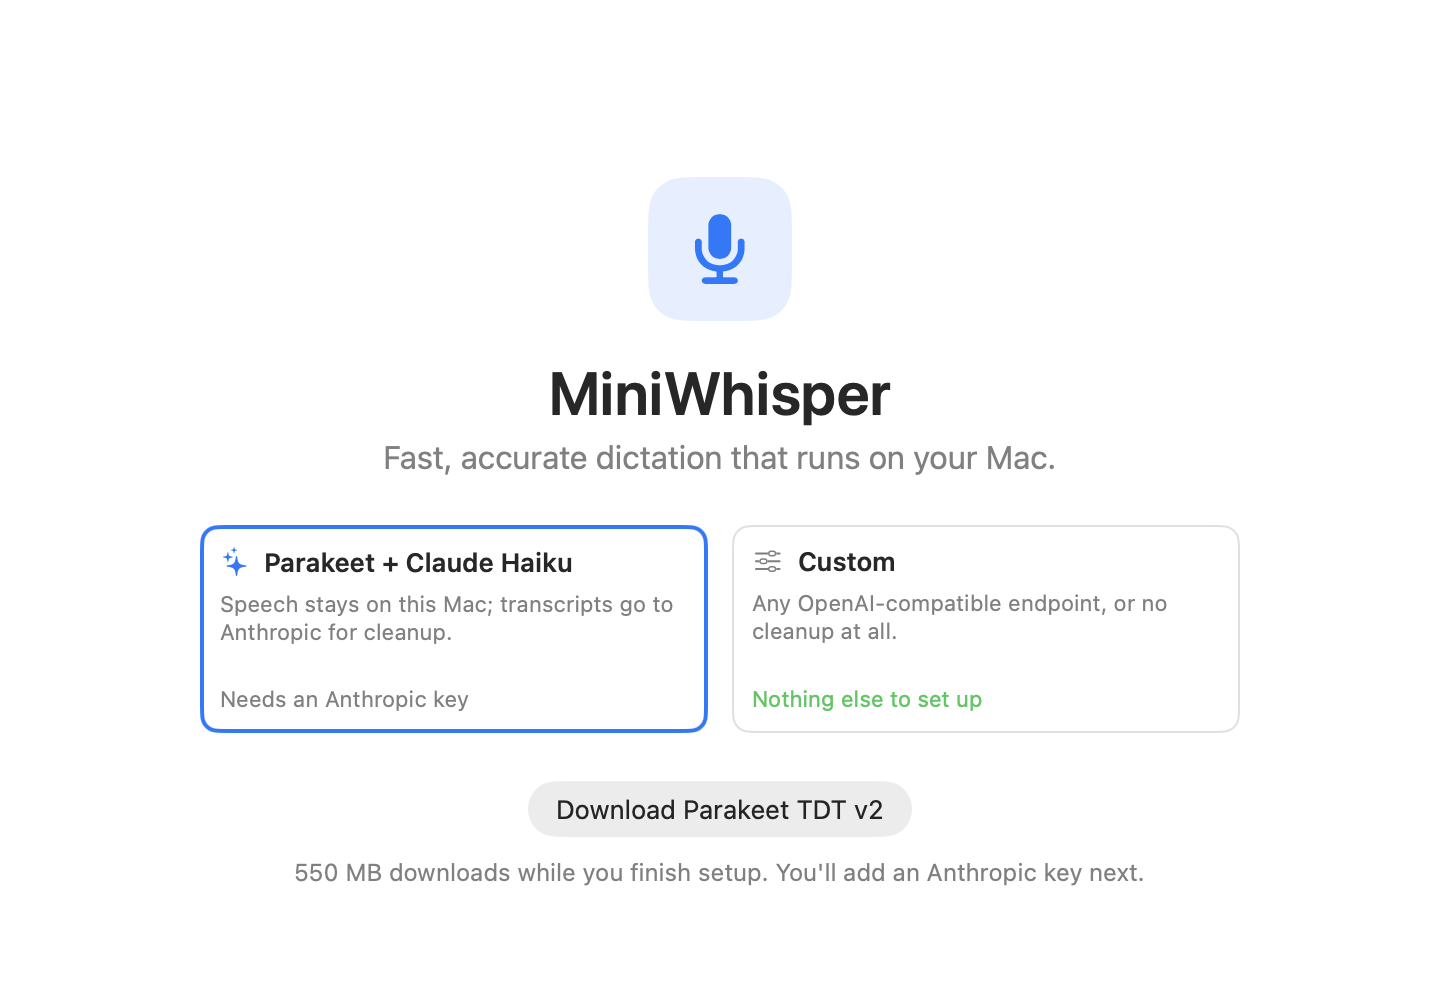
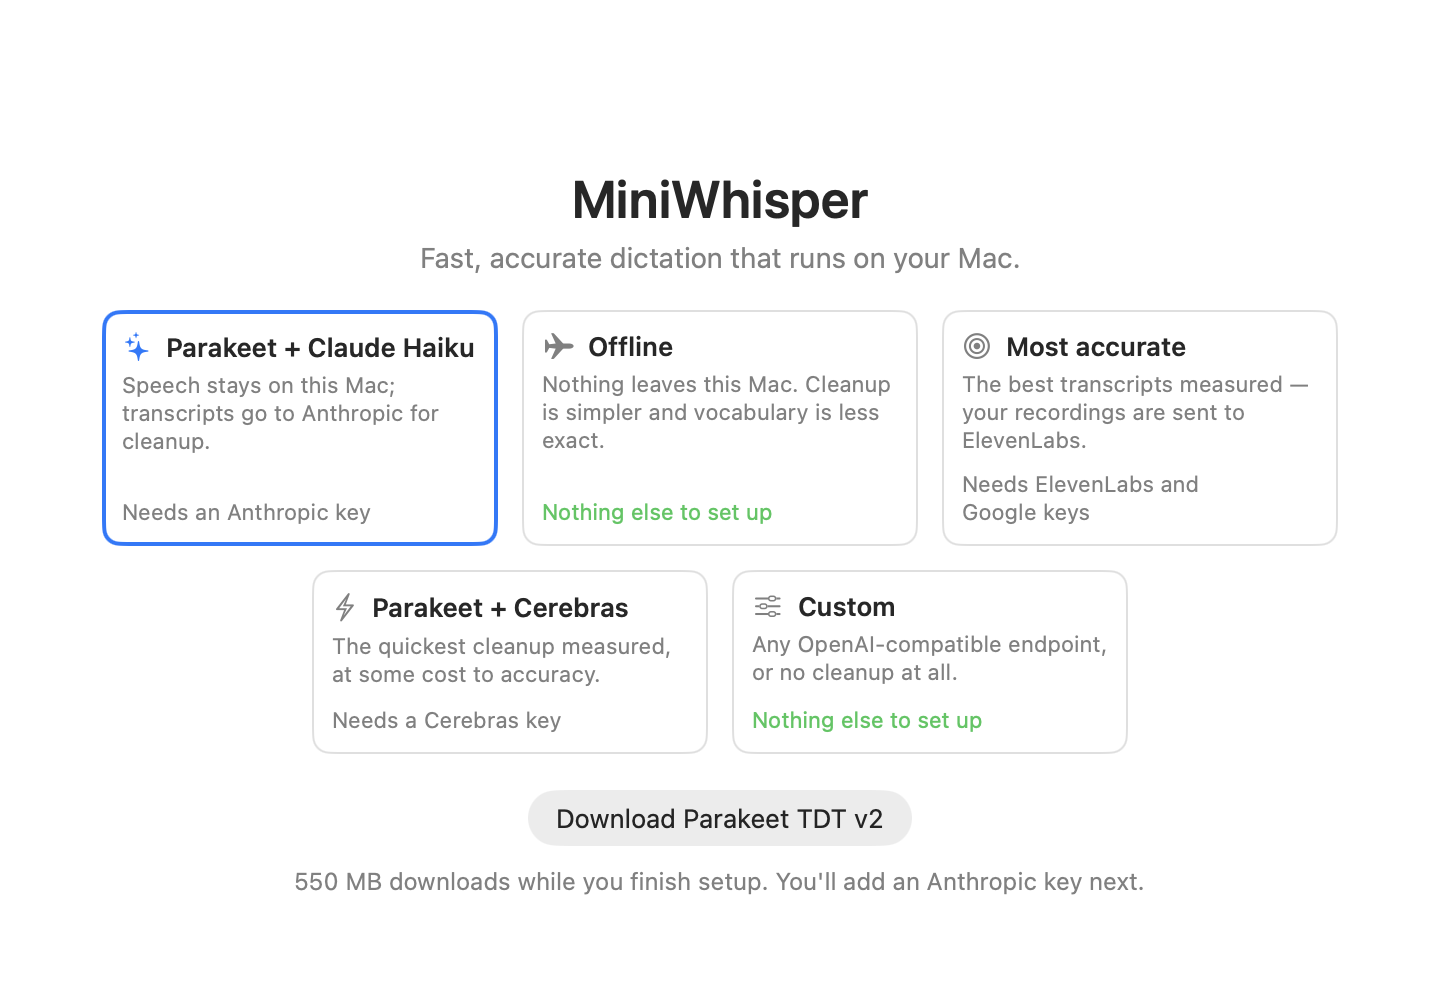
docs: show every profile on the welcome cards
Why: the user leans towards the cards layout and wants it to show the
whole lineup rather than the two profiles v1 ships, and settled how a
mid-download profile switch behaves.

Approach: welcome-b always renders all five profiles, as a row of three
over a centered row of two with equal heights. Downloads are recorded
as independent of the profile choice: the running download finishes
and the new profile asks for its own the normal way. Cleanup is the
pane's Downloaded models section, where a model the active profile
does not use now reads "not in use" beside its Delete button; a `tall`
flag opens a window that reaches it, captured as pane-b-leftover. The
factory profile shows claude-haiku-5-5.

Verified: built with swiftc, recaptured every screen light and dark,
inspected the cards and the leftover-model pane.

diff --git a/spikes/profiles-mockup/ProfilesMockup.swift b/spikes/profiles-mockup/ProfilesMockup.swift
@@ -15,6 +15,7 @@
 //   offline          start on the offline profile (the multi-model download case)
 //   custom-selected  start with Custom selected, so its own detail rows are on screen
 //   light | dark  force an appearance
+//   tall          a settings window tall enough to reach Downloaded models
 //
 // Written against .agents/skills/native-macos-ui: system containers own the layout, text styles
 // instead of point sizes, semantic colors only, no control drawn by hand that AppKit provides.
@@ -67,7 +68,7 @@ let haikuProfile = Profile(
   tagline: "Speech stays on this Mac; transcripts go to Anthropic for cleanup.",
   symbol: "sparkles", isFactory: true, engine: "Parakeet TDT v2",
   vocabulary: "Staged in the cleanup prompt",
-  endpoint: "https://api.anthropic.com/v1", model: "claude-haiku-4-5", needsKey: true,
+  endpoint: "https://api.anthropic.com/v1", model: "claude-haiku-5-5", needsKey: true,
   keyProvider: "Anthropic", keyRequirement: "an Anthropic key", models: [parakeet],
 )
 
@@ -145,7 +146,8 @@ enum Screen: String {
   init() {
     let arguments = CommandLine.arguments.dropFirst().map { $0.lowercased() }
     screen = arguments.compactMap(Screen.init(rawValue:)).first ?? .paneA
-    showsFullLineup = arguments.contains("full")
+    // The cards page always shows the whole lineup: comparing every option is what it is for.
+    showsFullLineup = arguments.contains("full") || screen == .welcomeB
     isOverridden = arguments.contains("overridden")
     if arguments.contains("offline") {
       showsFullLineup = true
@@ -453,7 +455,7 @@ struct CustomDetail: View {
         HStack(spacing: 8) {
           Picker("", selection: .constant("gpt-oss-120b")) {
             Text("gpt-oss-120b").tag("gpt-oss-120b")
-            Text("claude-haiku-4-5").tag("claude-haiku-4-5")
+            Text("claude-haiku-5-5").tag("claude-haiku-5-5")
             Divider()
             Text("Custom…").tag("custom")
           }
@@ -550,9 +552,13 @@ struct ModelStorage: View {
     mock.showsFullLineup ? [parakeet, ctcHelper, s1mini] : [parakeet, ctcHelper]
   }
 
+  /// A model the active profile does not use says so, because a download the user walked away
+  /// from is exactly what they come here to delete.
   private func usedBy(_ asset: ModelAsset) -> String {
     let users = mock.profiles.filter { $0.models.contains(asset) }.map(\.name)
-    return users.isEmpty ? "\(asset.role) · not used by any profile" : "\(asset.role) · \(users.joined(separator: ", "))"
+    let owners = users.isEmpty ? "not used by any profile" : users.joined(separator: ", ")
+    let idle = mock.selectedProfile.models.contains(asset) || users.isEmpty ? "" : " — not in use"
+    return "\(asset.role) · \(owners)\(idle)"
   }
 }
 
@@ -833,25 +839,30 @@ struct WelcomeList: View {
 
 // MARK: - Welcome B: cards
 
-/// The profiles side by side, so the tradeoffs are compared rather than read in turn. Each card
-/// ends with what it costs to set up. Five profiles is two rows of three and no hero glyph.
+/// Every profile side by side, so the tradeoffs are compared rather than read in turn. Each card
+/// ends with what it costs to set up. Five profiles is a row of three over a centered row of two,
+/// and no hero glyph.
 struct WelcomeCards: View {
   @Bindable var mock: Mock
 
   var body: some View {
     let isCrowded = mock.profiles.count > 3
+    let perRow = isCrowded ? 3 : 2
+    let rows = stride(from: 0, to: mock.profiles.count, by: perRow).map {
+      Array(mock.profiles[$0 ..< min($0 + perRow, mock.profiles.count)])
+    }
     WelcomeShell(mock: mock, compactHero: isCrowded) {
-      LazyVGrid(
-        columns: Array(
-          repeating: GridItem(.flexible(), spacing: 12), count: isCrowded ? 3 : 2,
-        ),
-        spacing: 12,
-      ) {
-        ForEach(mock.profiles) { profile in
-          card(profile, isCrowded: isCrowded)
+      VStack(spacing: 12) {
+        ForEach(rows, id: \.first!.id) { row in
+          HStack(spacing: 12) {
+            ForEach(row) { profile in
+              card(profile, isCrowded: isCrowded)
+                .frame(width: isCrowded ? 198 : 254)
+            }
+          }
+          .fixedSize(horizontal: false, vertical: true)
         }
       }
-      .frame(width: isCrowded ? 620 : 520)
     }
   }
 
@@ -877,7 +888,7 @@ struct WelcomeCards: View {
         .foregroundStyle(profile.needsKey ? Color.secondary : Color.green)
     }
     .padding(10)
-    .frame(maxWidth: .infinity, minHeight: isCrowded ? 92 : 104, alignment: .topLeading)
+    .frame(maxWidth: .infinity, minHeight: isCrowded ? 92 : 104, maxHeight: .infinity, alignment: .topLeading)
     .background(
       Color(nsColor: .controlBackgroundColor).opacity(0.5),
       in: RoundedRectangle(cornerRadius: 9),
@@ -1074,7 +1085,7 @@ final class Delegate: NSObject, NSApplicationDelegate {
       window.titlebarAppearsTransparent = true
     } else {
       window = NSWindow(
-        contentRect: NSRect(x: 0, y: 0, width: 880, height: 680),
+        contentRect: NSRect(x: 0, y: 0, width: 880, height: arguments.contains("tall") ? 1180 : 680),
         styleMask: [.titled, .closable, .miniaturizable, .resizable, .fullSizeContentView],
         backing: .buffered, defer: false,
       )

diff --git a/spikes/profiles-mockup/README.md b/spikes/profiles-mockup/README.md
@@ -22,6 +22,7 @@ Flags stack after the screen, in any order:
 | `overridden`      | its endpoint has been edited in place, so Reset to Default exists |
 | `offline`         | start on the offline profile — the three-file download case       |
 | `custom-selected` | start on Custom, so its own detail rows are on screen             |
+| `tall`            | a settings window tall enough to reach Downloaded models          |
 | `light` / `dark`  | force an appearance                                               |
 
 Everything is live: profiles select, the key field stores, the welcome button walks the real branch (a factory profile with no key goes to the key step, Custom goes straight to the downloads).
@@ -54,7 +55,7 @@ Radio rows in a card under the hero, the grammar of the Permissions page. Each r
 
 ### B — cards
 
-The profiles side by side, so tradeoffs are compared rather than read in turn; each card ends with what it costs to set up. Two cards sit comfortably under the full hero. Five is two rows of three with no hero glyph, and the page is visibly full.
+Every profile side by side, so tradeoffs are compared rather than read in turn; each card ends with what it costs to set up. This variant always shows the whole lineup, not just the two v1 ships, because comparing every option is what cards are for. At five the hero drops its glyph and the cards sit as three over a centered two.
 
 ### C — pop-up
 
@@ -64,7 +65,7 @@ Today's welcome page plus one `Picker`, preselected to the default, the selected
 
 A factory profile is prescriptive, so this page has no Skip. The only way past it is a different profile, and the link says which one and what it costs: "Use the Custom profile instead — no key, no cleanup". Continue is disabled while the field is empty.
 
-The link goes straight on to the downloads rather than back to the welcome page, because the download has already started. That only works while Custom shares the factory profile's model set; switching to a profile with a different set mid-download is a case the design doc has to answer.
+The link goes straight on to the downloads rather than back to the welcome page, because the download has already started. That only works while Custom shares the factory profile's model set; switching to a profile with a different set mid-download is decided: the running download finishes, the new profile asks for its own download the normal way, and neither blocks the other. A model nobody wants anymore is deleted from the pane's Downloaded models section, where one the active profile does not use says `not in use` (`pane-b full tall`).
 
 ### The download page
 

diff --git a/docs/wayfinding/finishing-mini-whisper/tickets/49-profiles-ui-mockup.md b/docs/wayfinding/finishing-mini-whisper/tickets/49-profiles-ui-mockup.md
@@ -23,4 +23,6 @@ Output: runnable variants of both, screenshotted light and dark, with the tradeo
 ## Decided so far
 
 - **Profile choice moves to the welcome page** (user, 2026-10-21). The welcome button is the download consent and the profile decides the model set, so choosing there lets the durable background download start on the first click instead of one page later. The welcome button names its download (one model, several, or none for a hosted engine); the rail drops its Profile step, and a factory profile adds a Cleanup Key step at the head of it. The mock-up's onboarding variants were rebuilt on the welcome page as list, cards, and pop-up.
-- Open: which welcome variant, and which pane picker. Also for the design doc: what switching to a profile with a different model set does to a download that has already started.
+- **The cards page shows every profile, not just the ones v1 ships** (user, 2026-10-21). Comparing the whole lineup is what cards are for; at five the hero drops its glyph and the cards sit as three over a centered two.
+- **Downloads are independent of the profile choice** (user, 2026-10-21). Switching to a profile with a different model set while a download is running does not cancel it: the old download finishes, and the new profile asks for its own download the normal way, as a profile missing its download always does. Neither blocks the other. What makes that safe is cleanup afterwards: the pane's Downloaded models section lists every model with its size, the profiles that use it, and a Delete button, and a model the active profile does not use now says `not in use` (`pane-b-leftover`).
+- Open: which welcome variant (leaning cards), and which pane picker.
